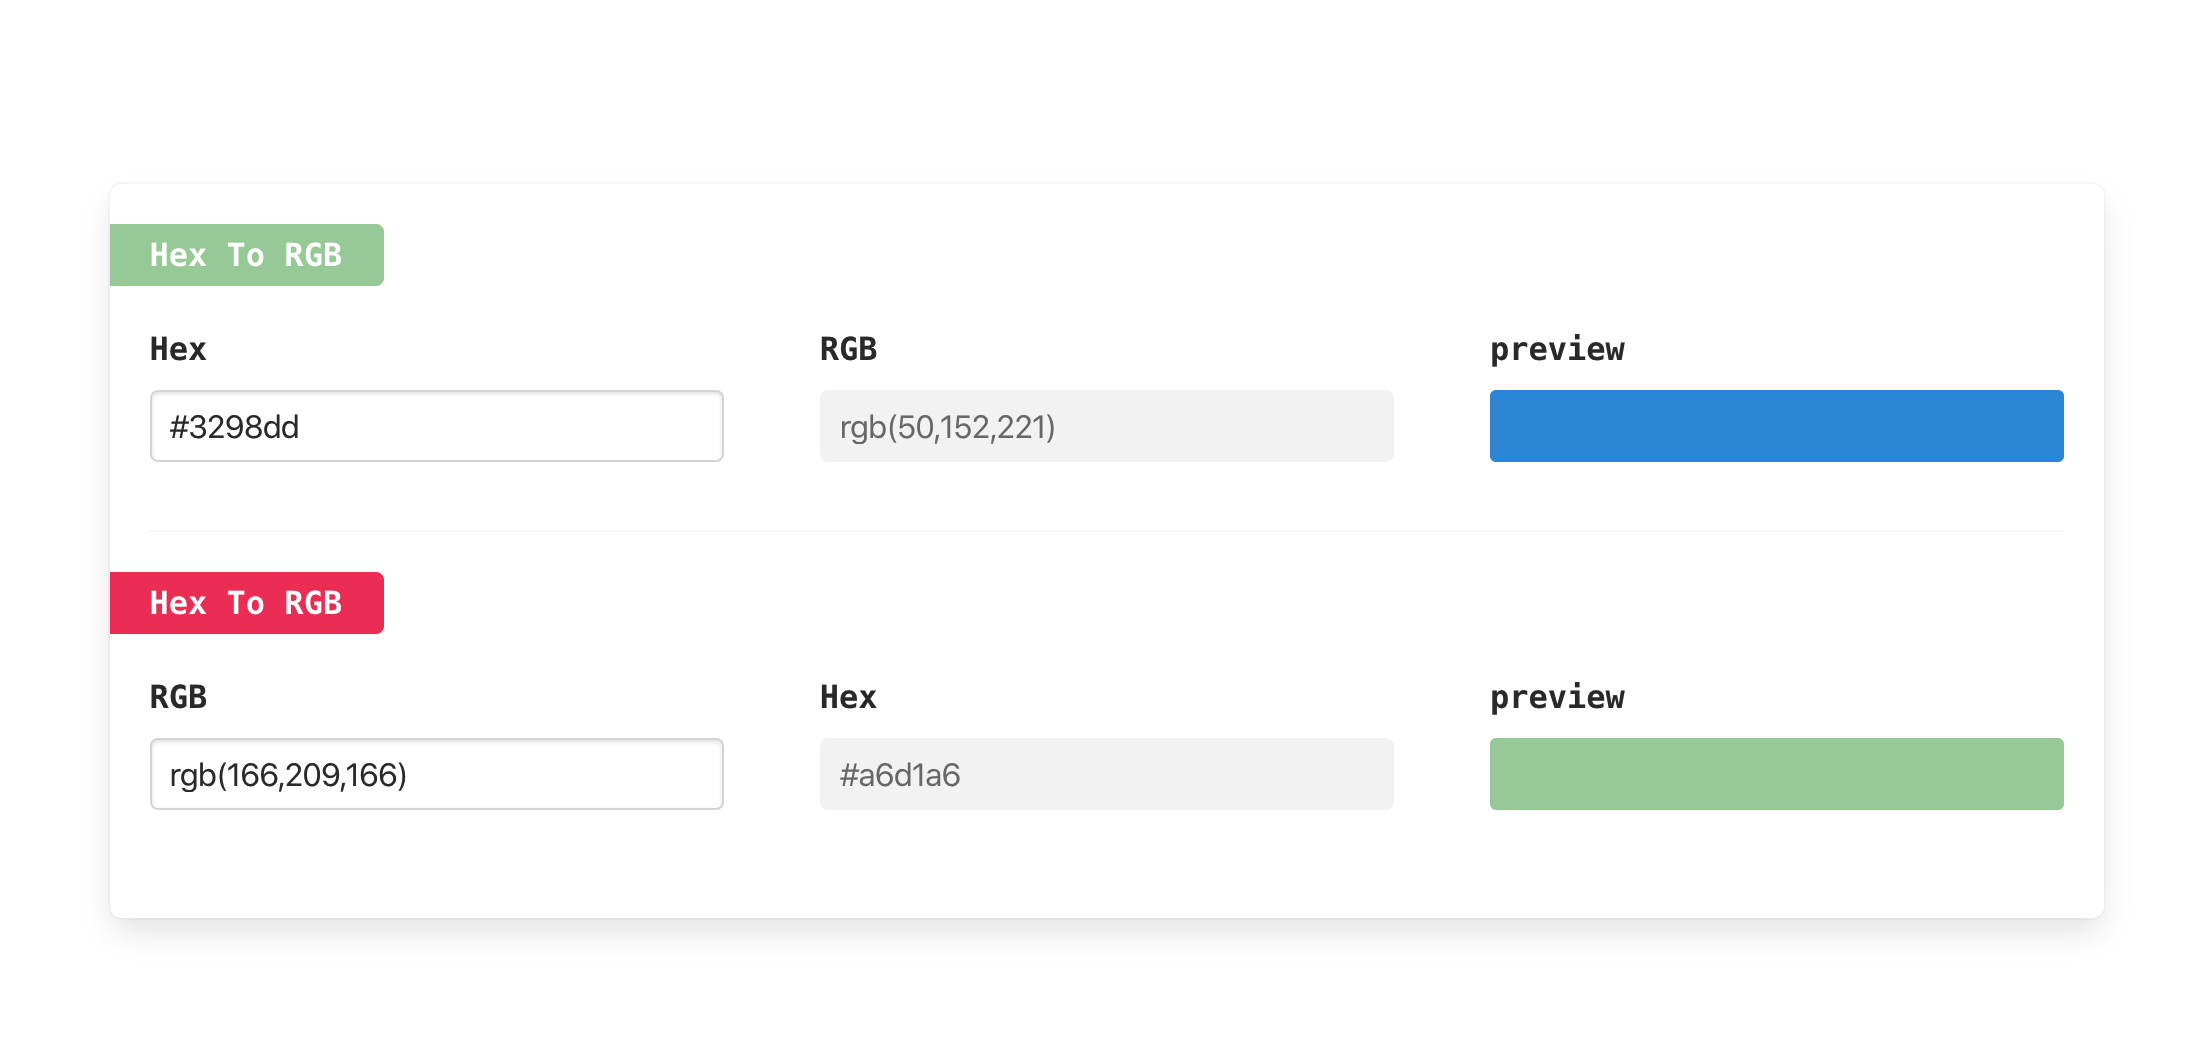
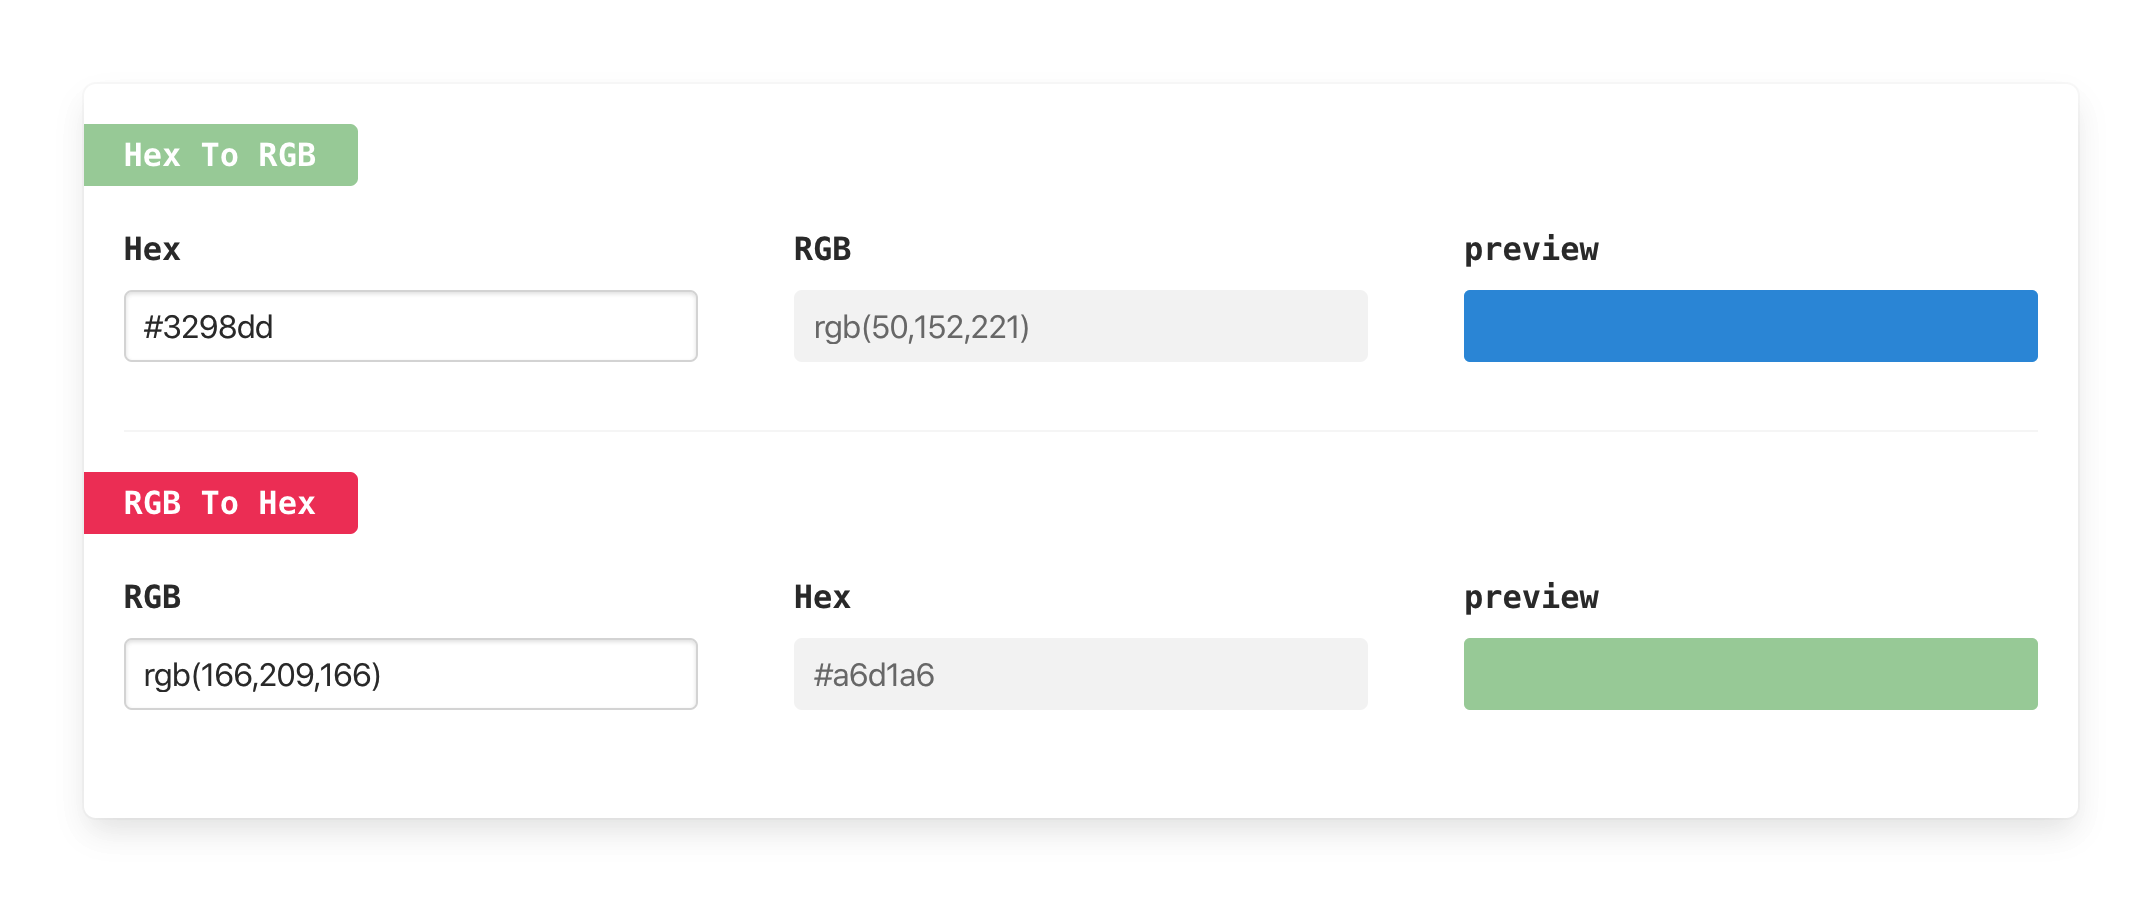
add

diff --git a/index.html b/index.html
@@ -14,7 +14,7 @@
       <div class="preview" :style='{"background-color":hex||"#f5f5f5"}'></div>
     </b-field>
   </section>
-  <h1 style="background-color: #f14667;">Hex To RGB</h1>
+  <h1 style="background-color: #f14667;">RGB To Hex</h1>
   <section>
     <b-field label="RGB">
       <b-input
